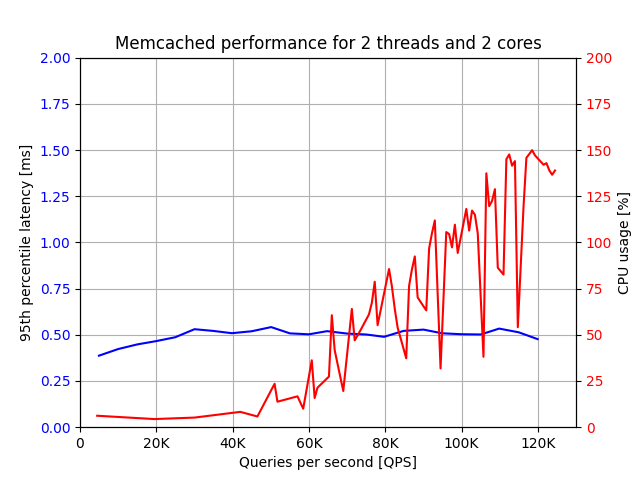
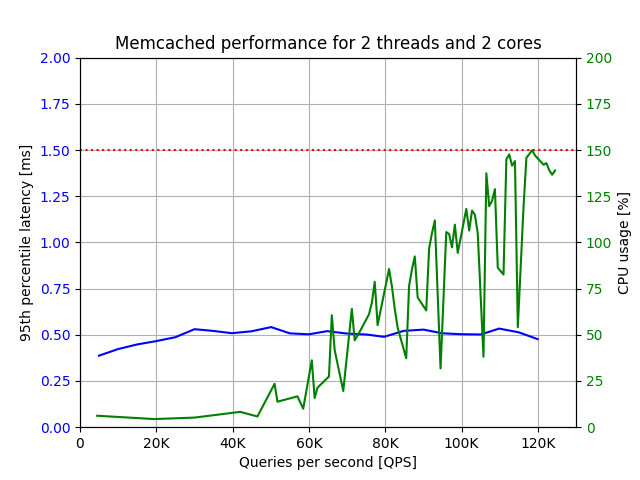
added horizontal line

diff --git a/part4/main_1d.py b/part4/main_1d.py
@@ -128,13 +128,14 @@ plt.xlim(0, 130000)
 plt.xticks([0, 20000, 40000, 60000, 80000, 100000, 120000], ['0', '20K', '40K', '60K', '80K', '100K', '120K'])
 plt.ylim(0, 2)
 plt.title("Memcached performance for 2 threads and 1 core")
+plt.axhline(y=1.5, linestyle='dotted', color="red")
 #plt.legend(loc="upper left")
 plt.grid()
 
 ax2 = ax.twinx()  # instantiate a second axes that shares the same x-axis
 ax2.set_ylabel('CPU usage [%]')  # we already handled the x-label with ax1
-ax2.plot(x2, y2, color="red", label="CPU usage [%]")
-ax2.tick_params(axis='y', labelcolor="red")
+ax2.plot(x2, y2, color="green", label="CPU usage [%]")
+ax2.tick_params(axis='y', labelcolor="green")
 ax2.set_ylim([0, 100])
 
 # Display graph
@@ -155,13 +156,14 @@ plt.xlim(0, 130000)
 plt.xticks([0, 20000, 40000, 60000, 80000, 100000, 120000], ['0', '20K', '40K', '60K', '80K', '100K', '120K'])
 plt.ylim(0, 2)
 plt.title("Memcached performance for 2 threads and 2 cores")
+plt.axhline(y=1.5, linestyle='dotted', color="red")
 #plt.legend(loc="upper left")
 plt.grid()
 
 ax2 = ax.twinx()  # instantiate a second axes that shares the same x-axis
 ax2.set_ylabel('CPU usage [%]')  # we already handled the x-label with ax1
-ax2.plot(x2_2, y2_2, color="red", label="CPU usage [%]")
-ax2.tick_params(axis='y', labelcolor="red")
+ax2.plot(x2_2, y2_2, color="green", label="CPU usage [%]")
+ax2.tick_params(axis='y', labelcolor="green")
 ax2.set_ylim([0, 200])
 
 # Display graph
